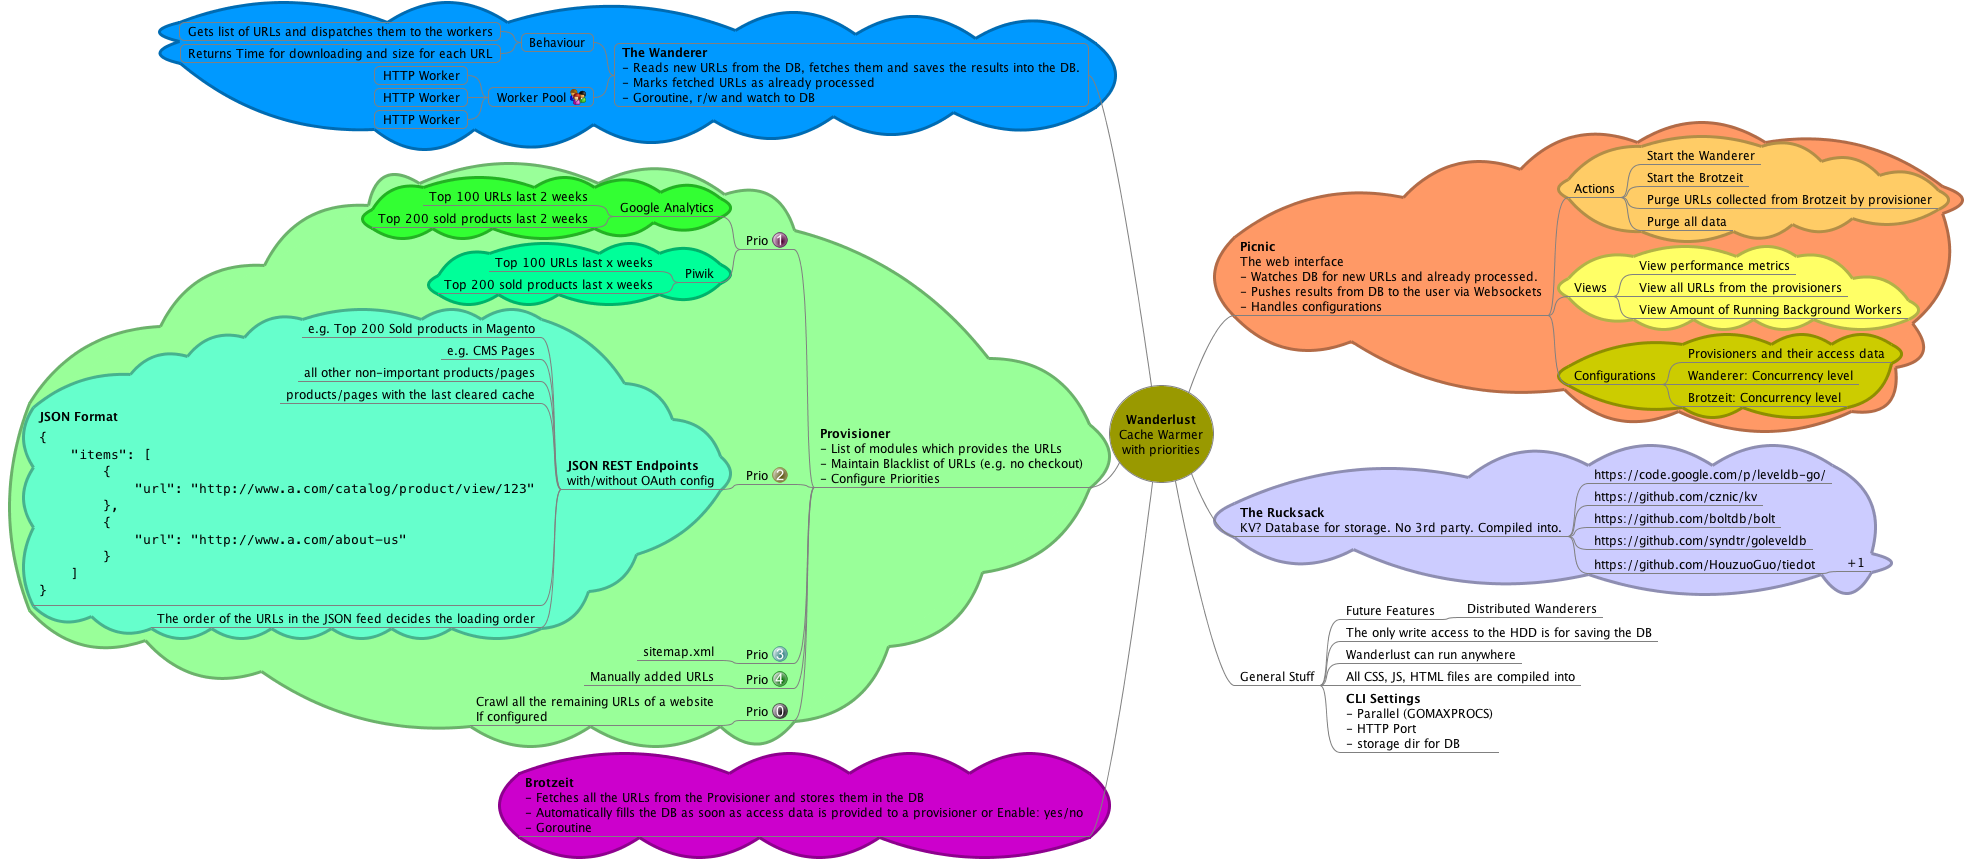
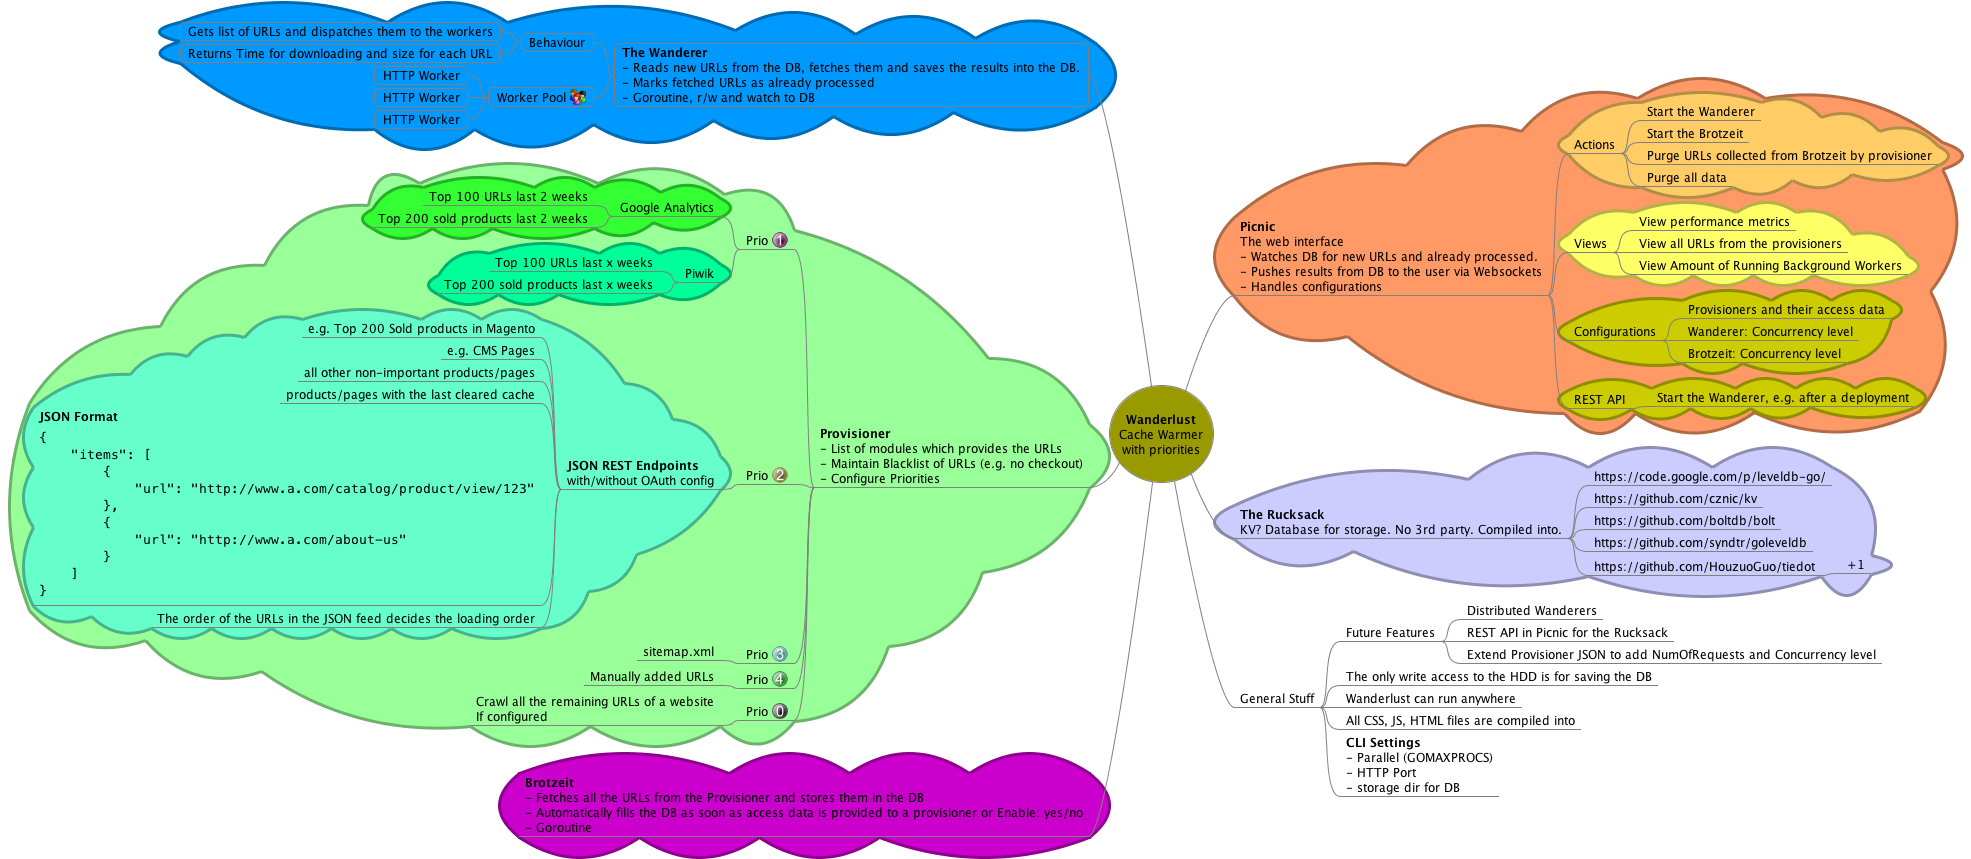
Update map

Changed region(s): [[0.619, 0.0908, 1.0, 0.9383], [0.6499, 0.3935, 0.7118, 0.4237]]

diff --git a/mindmap/wanderlust.mm b/mindmap/wanderlust.mm
@@ -17,7 +17,7 @@
     </p>
   </body>
 </html></richcontent>
-<node CREATED="1408226077809" ID="ID_1082254437" MODIFIED="1408231745357" POSITION="right">
+<node CREATED="1408226077809" ID="ID_1082254437" MODIFIED="1408431998370" POSITION="right">
 <richcontent TYPE="NODE"><html>
   <head>
     
@@ -59,6 +59,10 @@
 <node CREATED="1408227096764" ID="ID_1917687630" MODIFIED="1408229329570" TEXT="Provisioners and their access data"/>
 <node CREATED="1408229333431" ID="ID_920425934" MODIFIED="1408229394680" TEXT="Wanderer: Concurrency level"/>
 <node CREATED="1408229358645" ID="ID_454668395" MODIFIED="1408229419886" TEXT="Brotzeit: Concurrency level"/>
+</node>
+<node CREATED="1408431999379" ID="ID_1149314733" MODIFIED="1408432599270" TEXT="REST API">
+<cloud COLOR="#cccc00"/>
+<node CREATED="1408432030914" ID="ID_1273328265" MODIFIED="1408432579004" TEXT="Start the Wanderer, e.g. after a deployment"/>
 </node>
 </node>
 <node CREATED="1408226087413" ID="ID_1865183383" MODIFIED="1408228749873" POSITION="left" STYLE="bubble">
@@ -248,6 +252,8 @@
 <node CREATED="1408231473795" ID="ID_1639913958" MODIFIED="1408231477785" POSITION="right" TEXT="General Stuff">
 <node CREATED="1408231437313" ID="ID_1943784766" MODIFIED="1408231442250" TEXT="Future Features">
 <node CREATED="1408231445390" ID="ID_1320540073" MODIFIED="1408231459146" TEXT="Distributed Wanderers"/>
+<node CREATED="1408332810790" ID="ID_1020350825" MODIFIED="1408332840229" TEXT="REST API in Picnic for the Rucksack"/>
+<node CREATED="1408332893227" ID="ID_79108366" MODIFIED="1408332958913" TEXT="Extend Provisioner JSON to add NumOfRequests and Concurrency level"/>
 </node>
 <node CREATED="1408231265873" ID="ID_525514306" MODIFIED="1408231279512" TEXT="The only write access to the HDD is for saving the DB"/>
 <node CREATED="1408231312099" ID="ID_1235551636" MODIFIED="1408231334046" TEXT="Wanderlust can run anywhere"/>
@@ -271,8 +277,7 @@
       - storage dir for DB
     </p>
   </body>
-</html>
-</richcontent>
+</html></richcontent>
 </node>
 </node>
 </node>
